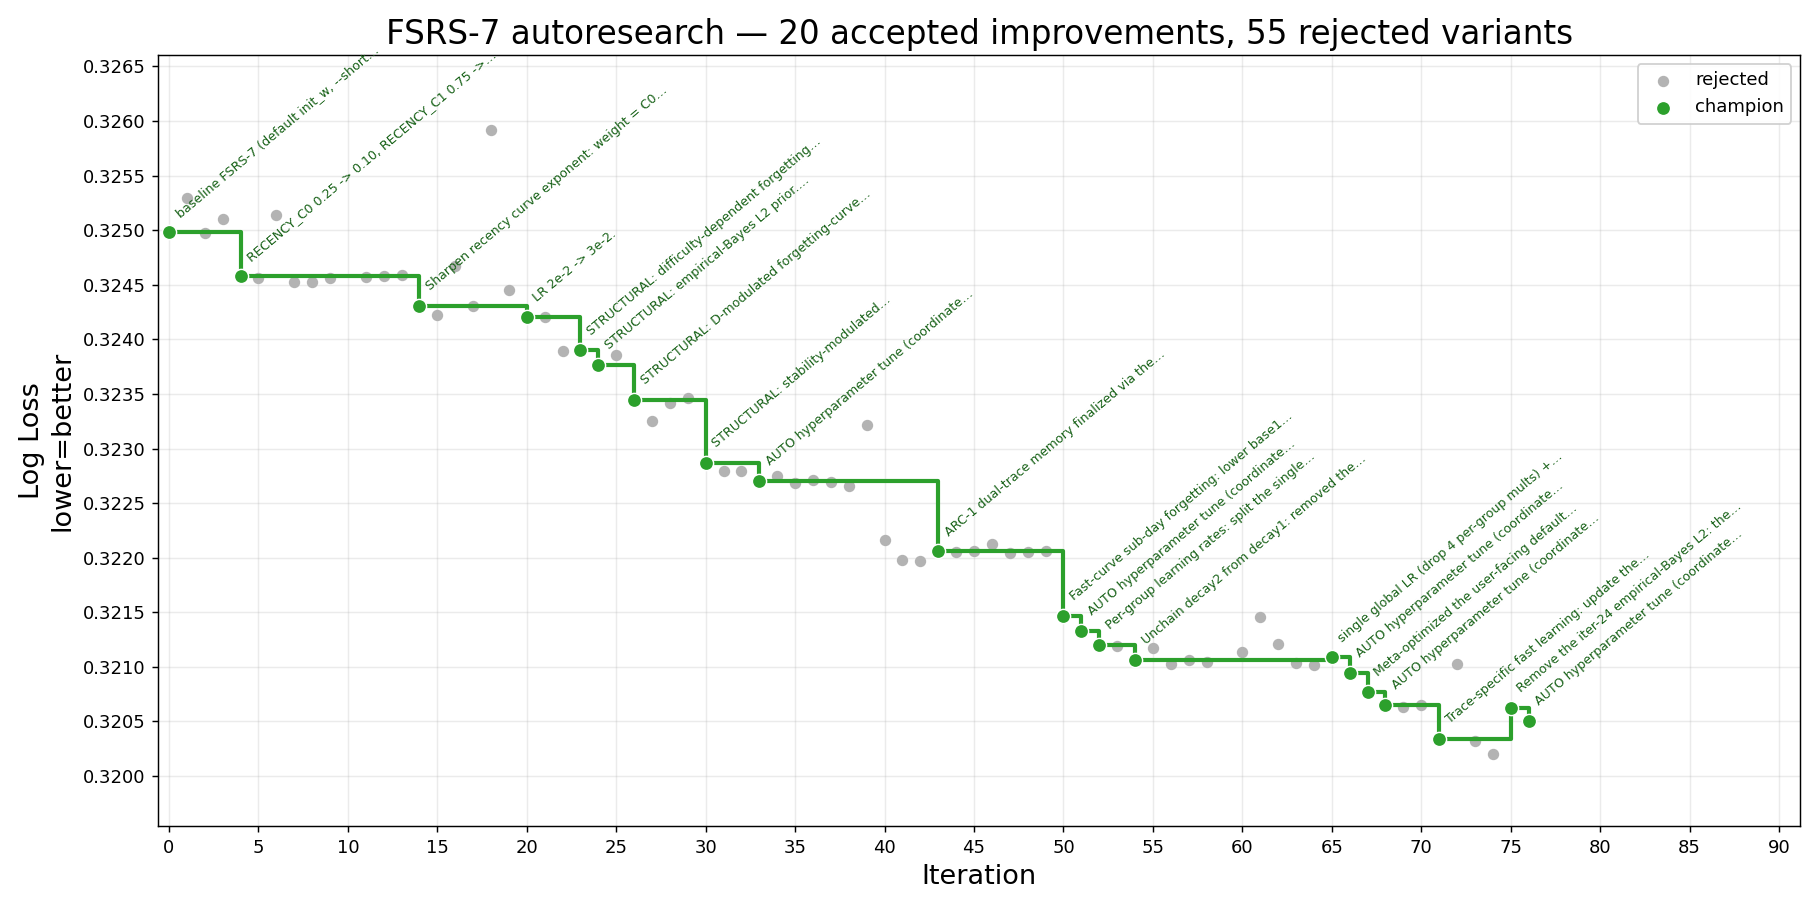
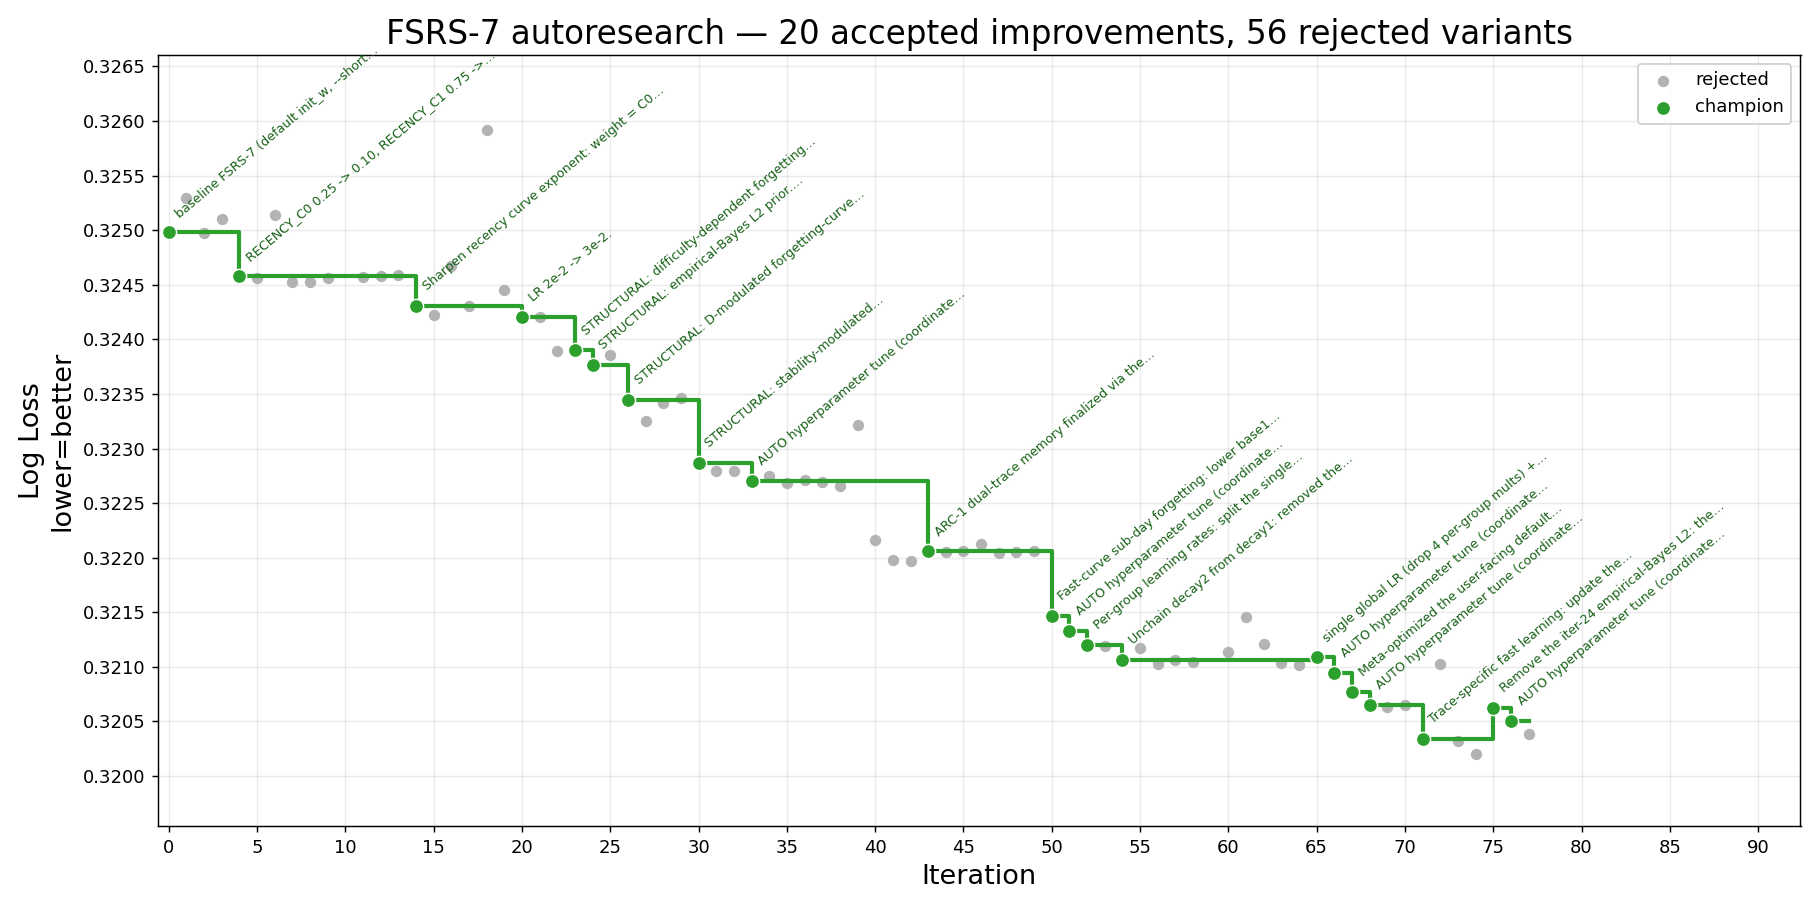
iter 77 rejected: nonlinear difficulty-damping exponent re-test (near-miss)
Re-test of iter-74's d_sinc_pow ((11-d)^p in s_inc) under the post-EB

regime. by_user 0.3205079 -> 0.3203885, +0.000119 < +0.0002 bar. w[36]

median ~0.985 (near-linear); population sits at linear so aggregate gain

stays tiny. Champion unchanged (iter-76, 0.3205079).

diff --git a/result/history.md b/result/history.md
@@ -1,6 +1,6 @@
 # FSRS-7 autoresearch — iteration history
 
-_76 record(s). Generated from `history.jsonl` — do not edit by hand._
+_77 record(s). Generated from `history.jsonl` — do not edit by hand._
 
 | # | Time (UTC) | Thresh. | LL before | LL after | Δ LL | Cx before | Cx after | Δ Cx % | Status | Summary |
 |--:|---|---:|---:|---:|---:|---:|---:|---:|---|---|
@@ -80,3 +80,4 @@ _76 record(s). Generated from `history.jsonl` — do not edit by hand._
 | 74 | 2026-06-03T16:49:10 | 0.0002 | 0.32034 | 0.32020 | +0.00014 | 16,795 | 16,817 | +0.13% | rejected | Add w[36]=d_sinc_pow: replace the linear difficulty-damping factor (11 - d) in the stability-increase formula s_inc with (11 - d)^d_sinc_pow, shared across the slow and fast trace updates. +1 param (36->37); default 1.0, clamp [0.2, 3.0], L2 sigma 0.3. |
 | 75 | 2026-06-03T17:08:20 | — | 0.32034 | 0.32063 | -0.00029 | 16,795 | 16,798 | +0.02% | accepted | Remove the iter-24 empirical-Bayes L2: the per-(user,split) L2 penalty anchor reverts from the live population mean (flat_fsrs_params.mean(0)) back to the fixed FSRS7_DEFAULT. No param/state change; the anchor_p plumbing (run.py masked_penalty/train_iter + helpers.penalty_loss) is dropped. |
 | 76 | 2026-06-03T18:13:39 | 0.0001 | 0.32063 | 0.32051 | +0.00013 | 16,798 | 16,798 | +0.00% | accepted | AUTO hyperparameter tune (coordinate descent over training hyperparameters (LR/betas/L2/recency C0+EXP/batch_size)): LR 0.03->0.0133, PENALTY_W_L2 0.5->0.3333, BETA2 0.9704->0.9913, BATCH_SIZE 256->128. |
+| 77 | 2026-06-03T18:28:10 | 0.0002 | 0.32051 | 0.32039 | +0.00012 | 16,798 | 16,820 | +0.13% | rejected | Add w[36]=d_sinc_pow: replace the linear difficulty-damping (11-d) in s_inc with (11-d)^d_sinc_pow, shared across slow+fast updates; +1 param, default 1.0, clamp [0.2,3.0], sigma 0.3. |
